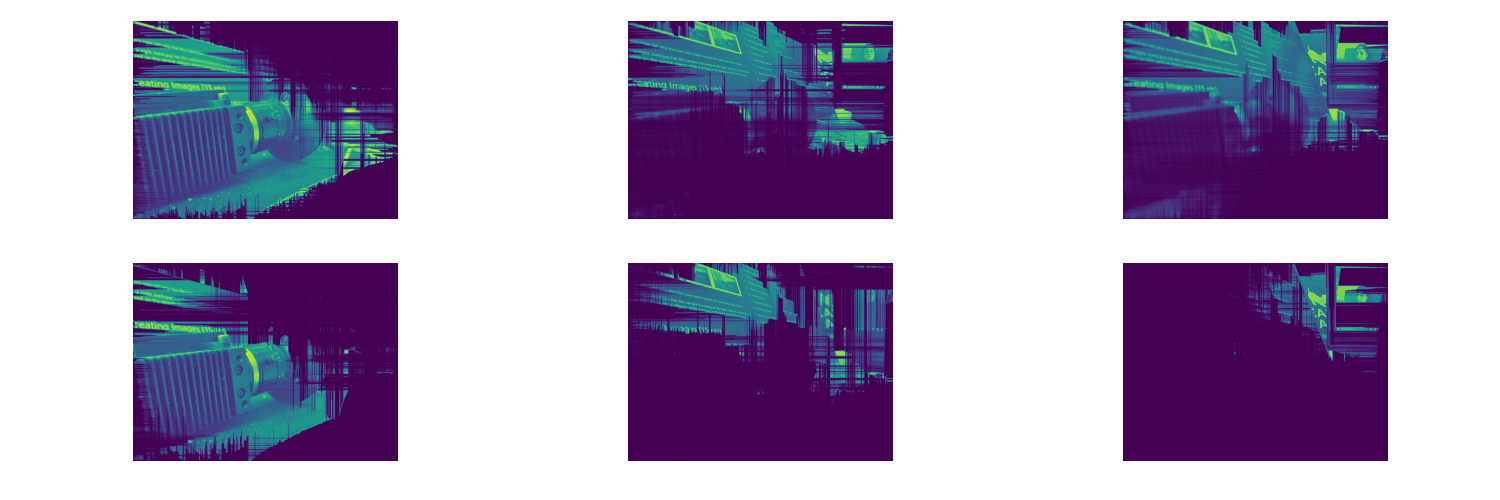
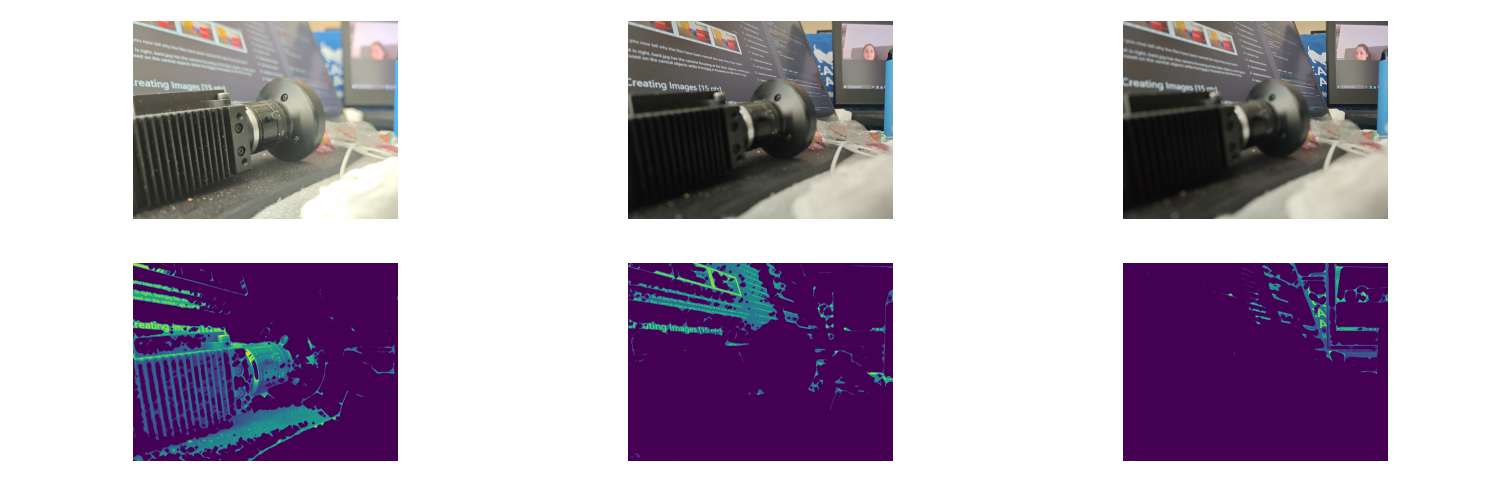
windowed convex hull

diff --git a/two_dimensions/processing.py b/two_dimensions/processing.py
@@ -49,27 +49,53 @@ class ImageProcessing():
             image = image[::2, ::2]
             image_pyramid.append(image)
         return image_pyramid, gaussian_pyramid
-    
-    def average_mask_in_windows(self, mask, window_size):
-        windows = sk.util.shape.view_as_windows(mask, (window_size, window_size))
-        window_means = np.mean(windows, axis=(2, 3))  # Calculate mean within each window
-        return sk.transform.resize(window_means, mask.shape, mode='constant', anti_aliasing=True)
 
-    def fill_between_first_last_true(self, binary, window_size):
-        filled_binary_row = np.copy(binary)
-        for row in range(binary.shape[0]):
-            col_indices = np.where(binary[row, :])[0]
-            if len(col_indices) > 0:
-                first_col = col_indices[0]
-                last_col = col_indices[-1]
-                filled_binary_row[row, first_col:last_col + 1] = True
+    def fill_between_first_last_true_window(self, binary, window_size, stride):
+        num_rows = (binary.shape[0] - window_size) // stride + 1
+        num_cols = (binary.shape[1] - window_size) // stride + 1
+        filled_binary = np.copy(binary)
         
-        filled_binary_col = np.copy(binary)
-        for col in range(binary.shape[1]):
-            row_indices = np.where(binary[:, col])[0]
-            if len(row_indices) > 0:
-                first_row = row_indices[0]
-                last_row = row_indices[-1]
-                filled_binary_col[first_row:last_row + 1, col] = True
-        
-        return self.average_mask_in_windows(filled_binary_col * filled_binary_row, window_size)
+        for row in range(num_rows):
+            for col in range(num_cols):
+                window = binary[row * stride:row * stride + window_size,
+                            col * stride:col * stride + window_size]
+                
+                filled_binary_row = np.copy(window)
+                for r in range(window.shape[0]):
+                    col_indices = np.where(window[r, :])[0]
+                    if len(col_indices) > 0:
+                        first_col = col_indices[0]
+                        last_col = col_indices[-1]
+                        filled_binary_row[r, first_col:last_col + 1] = True
+                
+                filled_binary_col = np.copy(window)
+                for c in range(window.shape[1]):
+                    row_indices = np.where(window[:, c])[0]
+                    if len(row_indices) > 0:
+                        first_row = row_indices[0]
+                        last_row = row_indices[-1]
+                        filled_binary_col[first_row:last_row + 1, c] = True
+                
+                filled_binary[row * stride:row * stride + window_size,
+                            col * stride:col * stride + window_size] |= filled_binary_col | filled_binary_row
+                
+        return filled_binary
+    
+    def convex_hull_window(self, image, window_size, stride):
+        num_rows = (image.shape[0] - window_size) // stride + 1
+        num_cols = (image.shape[1] - window_size) // stride + 1
+        combined_mask = np.zeros(image.shape, dtype=bool)
+        for row in range(num_rows):
+            for col in range(num_cols):
+                window = image[row * stride:row * stride + window_size,
+                            col * stride:col * stride + window_size]
+                non_zero_indices = np.transpose(np.nonzero(window))
+                if len(non_zero_indices) > 0:
+                    hull_mask = sk.morphology.convex_hull_image(window)
+                    combined_mask[row * stride:row * stride + window_size,
+                                col * stride:col * stride + window_size] |= hull_mask
+        return combined_mask
+    
+    def fill_voids(self, binary_mask):
+        filled_mask = sk.morphology.remove_small_holes(binary_mask, area_threshold=10)
+        return filled_mask

diff --git a/two_dimensions/filters.py b/two_dimensions/filters.py
@@ -17,21 +17,14 @@ class Filters():
         filters2 = []
         for img in self.images:
             img = sk.color.rgb2gray(img)
-            
-            _, residual = self.process.gaussian(img, self.sigma, self.truncate)
-            normalized = self.process.normalize_image(residual,0,255)
-            thresh = self.process.get_threshold(normalized)
-            binary1 =  normalized >= thresh
-            
+
             filtered, _ = self.process.sobel(img)
             normalized = self.process.normalize_image(filtered,0,255)
             thresh = self.process.get_threshold(normalized)
-            binary2 =  normalized >= thresh
-
-            filter1 = self.process.fill_between_first_last_true(binary1, 25)
-            filter2 = self.process.fill_between_first_last_true(binary2, 25)
-
-            filters1.append(filter1 * img)
-            filters2.append(filter2 * img)
+            binary =  normalized >= thresh
+            hull = self.process.convex_hull_window(binary, 50, 5)
+            fill = self.process.fill_between_first_last_true_window(binary, 50, 5)
+            filters2.append(self.process.fill_voids(fill) * img)
+            filters1.append(self.process.fill_voids(hull) * img)
             
         self.help.show_images(filters1, filters2)
